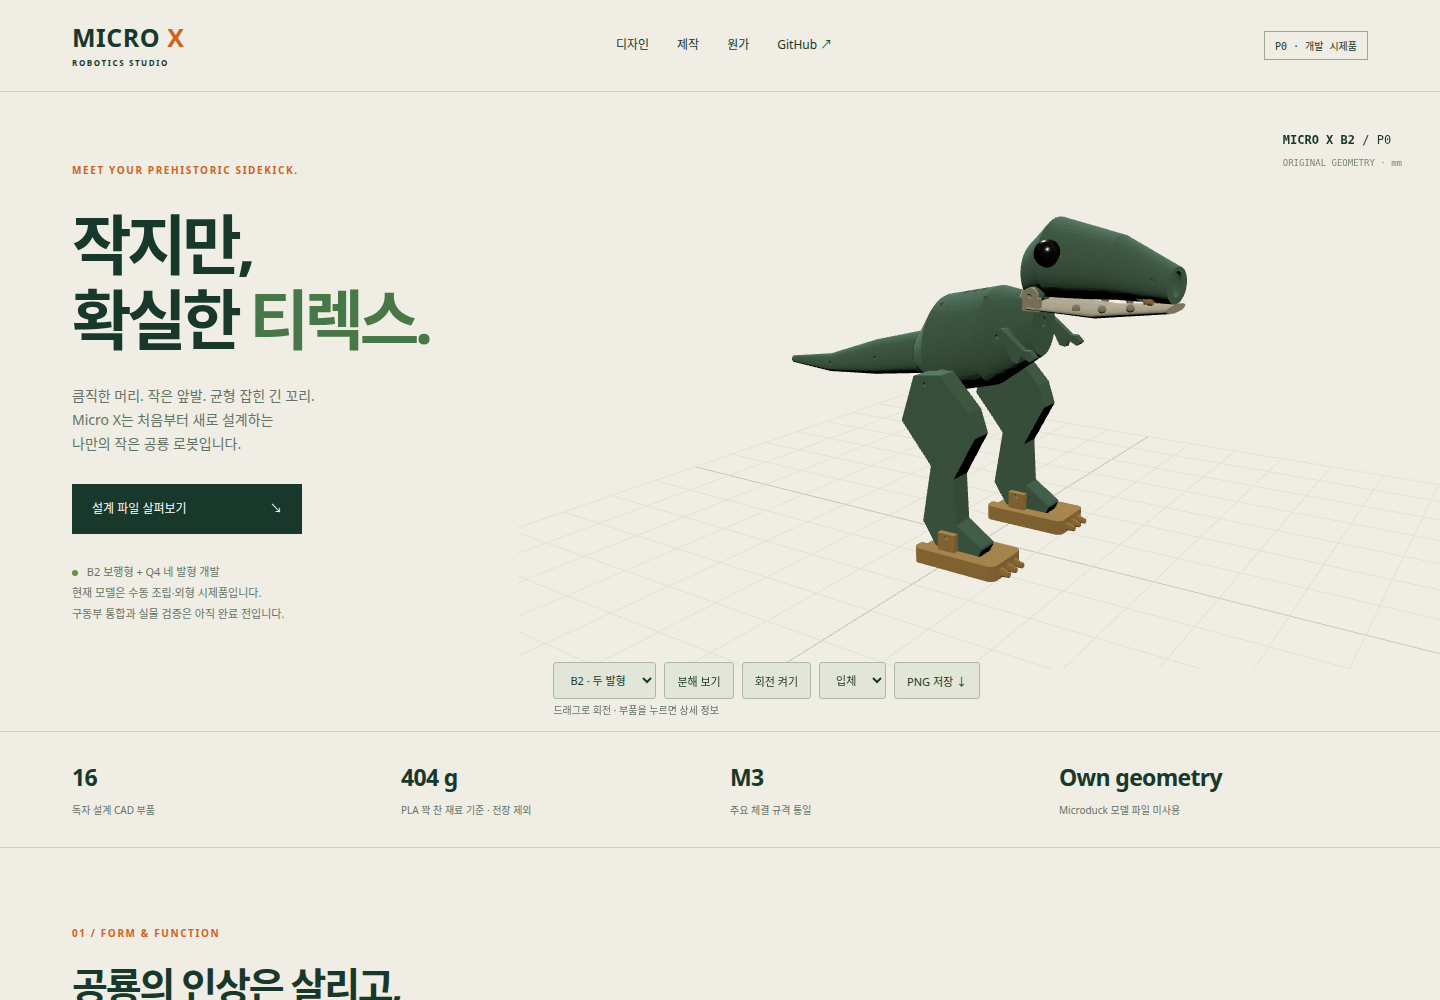
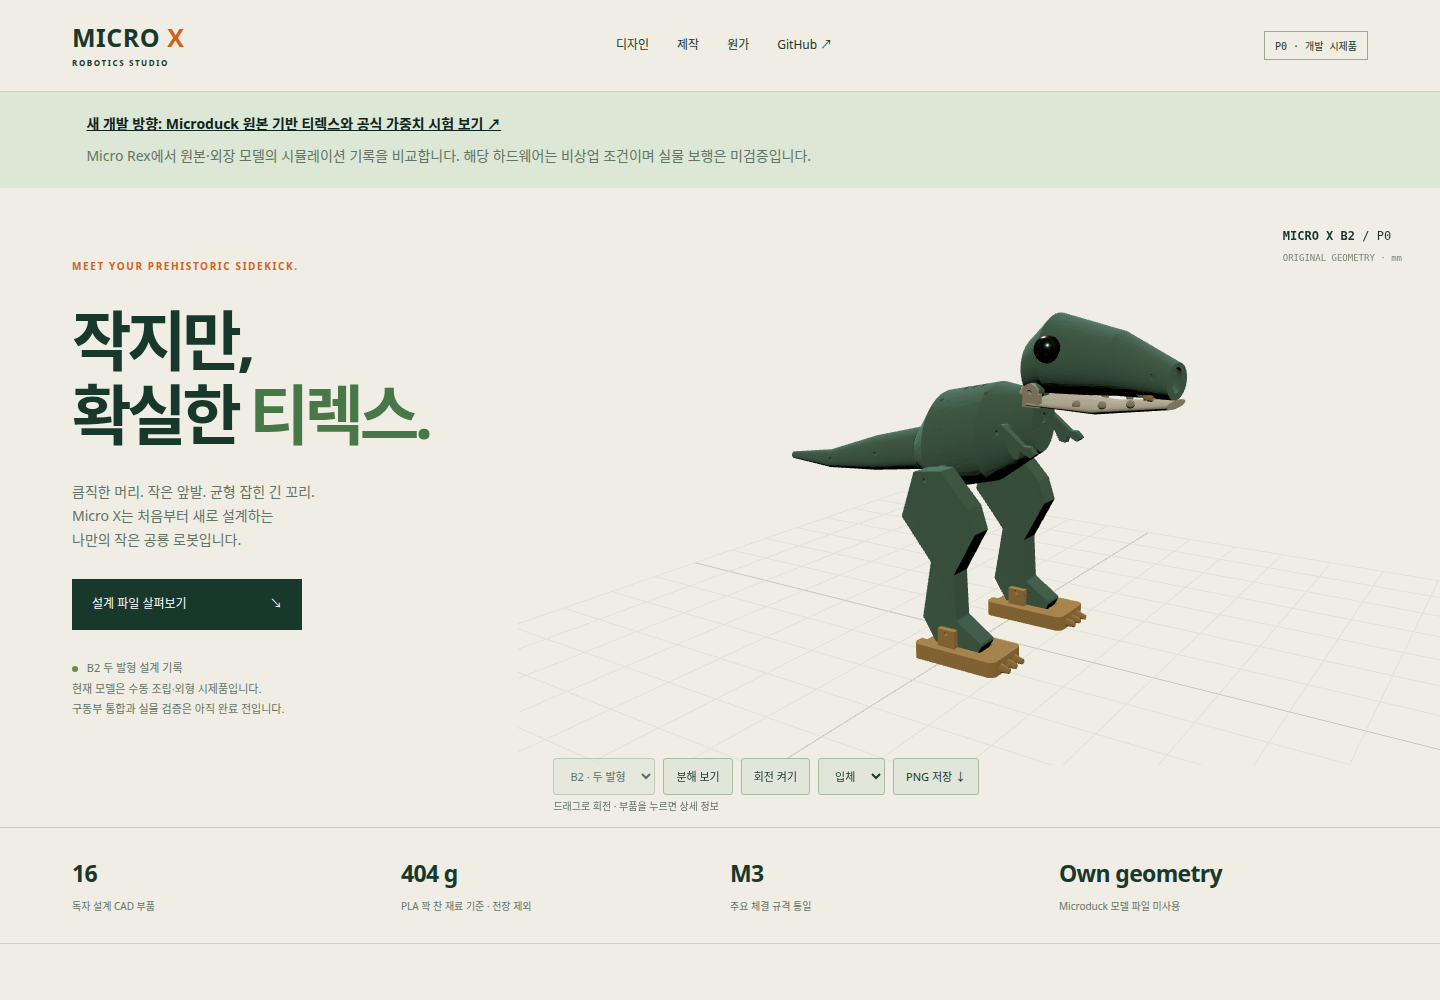
Retire Q4 from public viewer and focus on biped Rex

diff --git a/web/index.html b/web/index.html
@@ -1,10 +1,10 @@
 <!doctype html><html lang="ko"><head><meta charset="utf-8"><meta name="viewport" content="width=device-width,initial-scale=1"><meta name="theme-color" content="#10241d"><title>MICRO X — A little prehistoric.</title><link rel="stylesheet" href="style.css"><script type="importmap">{"imports":{"three":"./vendor/three/build/three.module.js"}}</script></head><body>
 <header><a class="logo" href="#">MICRO <b>X</b><small>ROBOTICS STUDIO</small></a><nav><a href="#design">디자인</a><a href="#build">제작</a><a href="#cost">원가</a><a href="https://github.com/hwkim3330/micro-x">GitHub ↗</a></nav><span class="tag">P0 · 개발 시제품</span></header>
 <div style="padding:20px 6%;background:#dce7d5;color:#10241d"><a href="https://hwkim3330.github.io/micro-rex/web/" style="font-weight:700">새 개발 방향: Microduck 원본 기반 티렉스와 공식 가중치 시험 보기 ↗</a><p style="margin:8px 0 0">Micro Rex에서 원본·외장 모델의 시뮬레이션 기록을 비교합니다. 해당 하드웨어는 비상업 조건이며 실물 보행은 미검증입니다.</p></div>
-<main><section class="hero" id="design"><div class="copy"><div class="eyebrow">MEET YOUR PREHISTORIC SIDEKICK.</div><h1>작지만,<br>확실한 <em>티렉스.</em></h1><p>큼직한 머리. 작은 앞발. 균형 잡힌 긴 꼬리.<br>Micro X는 처음부터 새로 설계하는<br>나만의 작은 공룡 로봇입니다.</p><a class="cta" href="#build">설계 파일 살펴보기 <span>↘</span></a><div class="hero-note"><span class="dot"></span> B2 보행형 + Q4 네 발형 개발<br>현재 모델은 수동 조립·외형 시제품입니다.<br>구동부 통합과 실물 검증은 아직 완료 전입니다.</div></div><div class="stage"><div id="view"><div id="loading" role="status">3D 모델 준비 중…</div><div class="coordinates"><b id="model-name">MICRO X B2</b> / P0<br><span>ORIGINAL GEOMETRY · mm</span></div></div><div class="tools"><select id="variant" aria-label="로봇 모델"><option value="b2">B2 · 두 발형</option><option value="q4">Q4 · 네 발형</option></select><button id="explode">분해 보기</button><button id="rotate">회전 켜기</button><select id="camera" aria-label="카메라 방향"><option value="hero">입체</option><option value="side">측면</option><option value="front">정면</option></select><button id="save">PNG 저장 ↓</button></div><div class="hint">드래그로 회전 · 부품을 누르면 상세 정보</div></div></section>
+<main><section class="hero" id="design"><div class="copy"><div class="eyebrow">MEET YOUR PREHISTORIC SIDEKICK.</div><h1>작지만,<br>확실한 <em>티렉스.</em></h1><p>큼직한 머리. 작은 앞발. 균형 잡힌 긴 꼬리.<br>Micro X는 처음부터 새로 설계하는<br>나만의 작은 공룡 로봇입니다.</p><a class="cta" href="#build">설계 파일 살펴보기 <span>↘</span></a><div class="hero-note"><span class="dot"></span> B2 두 발형 설계 기록<br>현재 모델은 수동 조립·외형 시제품입니다.<br>구동부 통합과 실물 검증은 아직 완료 전입니다.</div></div><div class="stage"><div id="view"><div id="loading" role="status">3D 모델 준비 중…</div><div class="coordinates"><b id="model-name">MICRO X B2</b> / P0<br><span>ORIGINAL GEOMETRY · mm</span></div></div><div class="tools"><select id="variant" aria-label="로봇 모델"><option value="b2">B2 · 두 발형</option></select><button id="explode">분해 보기</button><button id="rotate">회전 켜기</button><select id="camera" aria-label="카메라 방향"><option value="hero">입체</option><option value="side">측면</option><option value="front">정면</option></select><button id="save">PNG 저장 ↓</button></div><div class="hint">드래그로 회전 · 부품을 누르면 상세 정보</div></div></section>
 <section class="strip"><div><b id="part-count">—</b><span>독자 설계 CAD 부품</span></div><div><b id="mass">—</b><span>PLA 꽉 찬 재료 기준 · 전장 제외</span></div><div><b>M3</b><span>주요 체결 규격 통일</span></div><div><b>Own geometry</b><span>Microduck 모델 파일 미사용</span></div></section>
 <section class="section"><div class="heading"><span class="eyebrow">01 / FORM & FUNCTION</span><h2>공룡의 인상은 살리고,<br>구조는 단순하게.</h2></div><div class="features"><article><span>01</span><h3>수리할 수 있는 몸통</h3><p>상·하부 쉘과 네 개의 공용 나사로 구성합니다. 소모품과 내부 모듈을 교체할 수 있는 서비스 구조를 지향합니다.</p></article><article><span>02</span><h3>표정은 귀엽게, 눈은 나사로</h3><p>큰 눈동자와 하이라이트는 도색 표현으로 구현했습니다. 눈 부품은 안쪽 나사로 고정하도록 바꾸었으며 고정력 시험은 아직 남아 있습니다.</p></article><article><span>03</span><h3>제작 단계가 보이는 모델</h3><p>부품별 CAD와 출력 파일을 제공합니다. 출력 가능한 닫힌 모델과 조립·양산 검증 완료는 별도 단계로 관리합니다.</p></article></div></section>
 <section class="section" id="senses"><div class="heading"><span class="eyebrow">SENSES / IN DEVELOPMENT</span><h2>바라보고, 듣고,<br>작게 인사하는 공룡.</h2><p>카메라 장착 구조와 장치 소프트웨어를 개발 중입니다. 실제 로봇의 영상·음성·보행 통합은 아직 검증 전입니다.</p></div><div class="features"><article><span>CAMERA</span><h3>코 안의 카메라 자리</h3><p>자동초점 Camera Module 3 Standard 후보에 맞춘 브래킷과 렌즈 포트를 추가했습니다. 실시간 영상 전송과 실물 광학 시험은 남아 있습니다.</p><a href="../artifacts/camera_fit.json">렌즈 개구 계산 ↗</a></article><article><span>VOICE</span><h3>작은 공룡의 인사</h3><p>직접 합성한 울음소리 예시입니다. 실제 로봇 녹음이 아닙니다. 장치 서비스에는 마이크 녹음·소리 재생 경로를 구현했습니다.</p><audio id="chirp" controls preload="metadata" aria-label="합성 공룡 울음소리 예시" src="assets/micro-x-chirp.wav" style="width:100%"></audio></article><article><span>PROGRESS</span><h3>기능을 하나씩 검증</h3><p>IMU·거리 센서·발 접촉과 보행 제어는 미통합입니다. Microduck보다 나은 제품을 목표로 실제 시험 결과를 쌓아갑니다.</p><a href="https://github.com/hwkim3330/micro-x/blob/main/docs/FUNCTIONS.md">기능 비교·실행 안내 ↗</a></article></div></section>
-<section class="section engineering" id="build"><div class="heading"><span class="eyebrow">02 / OPEN DEVELOPMENT</span><h2>만들어 보고, 검증하고,<br>다음 설계로.</h2><p>공개 열람용 독자 설계입니다. 제조·재배포 권한은 <a href="../LICENSE">라이선스 범위</a>를 확인하세요.</p></div><div class="build-grid"><div><div id="selection"><h3>모델에서 부품을 선택하세요</h3><p>치수 · 재료 질량 추정 · STL · STEP</p></div><div class="downloads"><a id="assembly-step" href="../models/micro_x.step">전체 조립체 STEP ↓</a><a href="../models/coupons/m3_pilot_coupon.stl">M3 나사 시험 출력 STL ↓</a><a id="assembly-glb" href="../models/micro_x.glb">3D 모델 GLB ↓</a><a id="drawing-pdf" href="../artifacts/drawings.pdf">부품 도면 PDF ↗</a><a href="https://github.com/hwkim3330/micro-x/blob/main/docs/ASSEMBLY.md">조립 및 미해결 인터페이스 ↗</a></div></div><div><h3>자세 미리 보기</h3><p class="small">수동 힌지의 시각적 동작입니다. 모터 제어·충돌 검사·보행 시뮬레이션이 아닙니다.</p><label for="jaw">턱 열기 <output id="jaw-value">0°</output></label><input id="jaw" type="range" min="0" max="20" value="0"><button id="reset">조립 자세로 초기화</button><div class="status-card"><p>기본 자세 STEP 겹침 0건 · 턱 0–20°를 2° 간격으로 검사. 나사·공차·연속 동작은 미검증.</p><a id="static-report" href="../artifacts/interference.json">기본 자세 검사 ↗</a> · <a href="../artifacts/jaw_clearance.json">턱 검사 ↗</a><b style="display:block;margin-top:12px">현재 단계: P0 외형·조립 설계 / B2·Q4</b><p>구동부 장착, 목·머리 체결 완성 및 꼬리·앞팔 끼워맞춤, 물리적 간섭 검증과 시제품 시험이 남아 있습니다. 주문을 받는 판매 페이지가 아닙니다.</p></div></div></div><div class="table-wrap"><table><thead><tr><th>부품</th><th>크기 (mm)</th><th>재료 질량</th><th>파일</th></tr></thead><tbody id="parts"></tbody></table></div></section>
-<section class="section" id="cost"><div class="heading"><span class="eyebrow">03 / COST BY DESIGN</span><h2>싸게 보이는 숫자 대신,<br>바꿀 수 있는 원가 가정.</h2><p>아래는 견적이 아닌 비교 계산기입니다. 세금·배송·금형·인증·개발비·마진은 제외합니다.</p></div><div class="cost-grid"><div class="cost-inputs"><label>모터 수 <input id="motor-count" type="number" min="0" max="30" step="1" value="13"></label><label>모터 단가 ($) <input id="motor-price" type="number" min="0" step=".01" value="16.99"></label><label>전장·배선·체결 ($, 가정) <input id="other-cost" type="number" min="0" step="1" value="60"></label><label>출력·마감·조립 ($, 가정) <input id="assembly-cost" type="number" min="0" step="1" value="35"></label><label>수율 (%, 가정) <input id="yield" type="number" min="1" max="100" value="95"></label></div><div class="cost-total"><span>입력 가정에 따른 단위 비용</span><b id="cost-result">—</b><p>ST3215 계열 공개 소매가 범위 $16.99–21.99를 비교 입력값으로 사용했습니다. 실제 모터는 미선정이며 CAD에 통합되지 않았습니다.</p><a href="https://www.waveshare.com/product/modules/st3215-servo.htm">가격·사양 출처 ↗</a><p>계산기의 모터 수는 예시입니다. B2 13축·Q4 15축 요구안을 수립했으며, 실제 모터와 보행은 미검증입니다. <a href="../artifacts/platform_screen.json">하중·축 수 검토 ↗</a></p></div></div></section>
+<section class="section engineering" id="build"><div class="heading"><span class="eyebrow">02 / OPEN DEVELOPMENT</span><h2>만들어 보고, 검증하고,<br>다음 설계로.</h2><p>공개 열람용 독자 설계입니다. 제조·재배포 권한은 <a href="../LICENSE">라이선스 범위</a>를 확인하세요.</p></div><div class="build-grid"><div><div id="selection"><h3>모델에서 부품을 선택하세요</h3><p>치수 · 재료 질량 추정 · STL · STEP</p></div><div class="downloads"><a id="assembly-step" href="../models/micro_x.step">전체 조립체 STEP ↓</a><a href="../models/coupons/m3_pilot_coupon.stl">M3 나사 시험 출력 STL ↓</a><a id="assembly-glb" href="../models/micro_x.glb">3D 모델 GLB ↓</a><a id="drawing-pdf" href="../artifacts/drawings.pdf">부품 도면 PDF ↗</a><a href="https://github.com/hwkim3330/micro-x/blob/main/docs/ASSEMBLY.md">조립 및 미해결 인터페이스 ↗</a></div></div><div><h3>자세 미리 보기</h3><p class="small">수동 힌지의 시각적 동작입니다. 모터 제어·충돌 검사·보행 시뮬레이션이 아닙니다.</p><label for="jaw">턱 열기 <output id="jaw-value">0°</output></label><input id="jaw" type="range" min="0" max="20" value="0"><button id="reset">조립 자세로 초기화</button><div class="status-card"><p>기본 자세 STEP 겹침 0건 · 턱 0–20°를 2° 간격으로 검사. 나사·공차·연속 동작은 미검증.</p><a id="static-report" href="../artifacts/interference.json">기본 자세 검사 ↗</a> · <a href="../artifacts/jaw_clearance.json">턱 검사 ↗</a><b style="display:block;margin-top:12px">현재 단계: P0 외형·조립 설계 / B2</b><p>구동부 장착, 목·머리 체결 완성 및 꼬리·앞팔 끼워맞춤, 물리적 간섭 검증과 시제품 시험이 남아 있습니다. 주문을 받는 판매 페이지가 아닙니다.</p></div></div></div><div class="table-wrap"><table><thead><tr><th>부품</th><th>크기 (mm)</th><th>재료 질량</th><th>파일</th></tr></thead><tbody id="parts"></tbody></table></div></section>
+<section class="section" id="cost"><div class="heading"><span class="eyebrow">03 / COST BY DESIGN</span><h2>싸게 보이는 숫자 대신,<br>바꿀 수 있는 원가 가정.</h2><p>아래는 견적이 아닌 비교 계산기입니다. 세금·배송·금형·인증·개발비·마진은 제외합니다.</p></div><div class="cost-grid"><div class="cost-inputs"><label>모터 수 <input id="motor-count" type="number" min="0" max="30" step="1" value="13"></label><label>모터 단가 ($) <input id="motor-price" type="number" min="0" step=".01" value="16.99"></label><label>전장·배선·체결 ($, 가정) <input id="other-cost" type="number" min="0" step="1" value="60"></label><label>출력·마감·조립 ($, 가정) <input id="assembly-cost" type="number" min="0" step="1" value="35"></label><label>수율 (%, 가정) <input id="yield" type="number" min="1" max="100" value="95"></label></div><div class="cost-total"><span>입력 가정에 따른 단위 비용</span><b id="cost-result">—</b><p>ST3215 계열 공개 소매가 범위 $16.99–21.99를 비교 입력값으로 사용했습니다. 실제 모터는 미선정이며 CAD에 통합되지 않았습니다.</p><a href="https://www.waveshare.com/product/modules/st3215-servo.htm">가격·사양 출처 ↗</a><p>계산기의 모터 수는 예시입니다. B2 13축 요구안을 수립했으며, 실제 모터와 보행은 미검증입니다. <a href="../artifacts/platform_screen.json">하중·축 수 검토 ↗</a></p></div></div></section>
 <footer><a class="logo" href="#">MICRO <b>X</b></a><p>Independent product development by hwkim3330<br>Original design rights reserved · Web software MIT · <a href="https://github.com/hwkim3330/micro-x/blob/main/docs/PROVENANCE.md">출처 및 권리 기록</a></p><a href="https://hwkim3330.github.io/micro-rex/">기존 Micro Rex 비상업 시제품 ↗</a></footer></main><script type="module" src="app.js"></script></body></html>

diff --git a/web/app.js b/web/app.js
@@ -6,9 +6,9 @@ let parts=[],items=[],model,selected,jawPivot,expanded=false;
 function inspect(mesh){if(selected)selected.material.emissive.setHex(0);selected=mesh;if(!mesh)return;selected.material.emissive.setHex(0x233817);const p=parts.find(p=>p.name===mesh.name);if(!p)return;const box=$('#selection');box.replaceChildren();for(const [tag,text]of [['h3',p.name.replaceAll('_',' ')],['p',`${p.dimensions_mm.join(' × ')} mm · ${p.mass_g} g 재료 기준`],['p',p.note]]){const e=document.createElement(tag);e.textContent=text;box.append(e)}for(const [label,path]of [['STL',p.stl],['STEP',p.step]]){const a=document.createElement('a');a.textContent=label+' ↓';a.href='../'+path;box.append(a)}}
 function setExplode(){for(const mesh of items){mesh.position.copy(mesh.userData.base);if(expanded)mesh.position.add(mesh.userData.offset)}}
 let loadVersion=0;
-async function loadVariant(key){const version=++loadVersion;const quad=key==='q4';$('#loading').hidden=false;$('#loading').textContent='3D 모델 준비 중…';window.microX=null;
+async function loadVariant(key){key='b2';const version=++loadVersion;const quad=false;$('#loading').hidden=false;$('#loading').textContent='3D 모델 준비 중…';window.microX=null;
 try{const r=await fetch(quad?'../artifacts/q4_parts.json':'../artifacts/parts.json');if(!r.ok)throw Error('parts '+r.status);const nextParts=await r.json();const g=await new GLTFLoader().loadAsync(quad?'../models/q4/micro_x_q4.glb':'../models/micro_x.glb');if(version!==loadVersion){g.scene.traverse(o=>{if(o.isMesh){o.geometry.dispose();o.material.dispose()}});return}if(model){scene.remove(model);model.traverse(o=>{if(o.isMesh){o.geometry.dispose();o.material.dispose()}})}parts=nextParts;items=[];selected=null;expanded=false;$('#explode').textContent='분해 보기';$('#jaw').value=0;$('#jaw-value').textContent='0°';$('#parts').replaceChildren();$('#selection').innerHTML='<h3>모델에서 부품을 선택하세요</h3><p>치수 · 재료 질량 추정 · STL · STEP</p>';model=g.scene;scene.add(model);model.traverse(o=>{if(o.isMesh){o.material=o.material.clone();if(o.name.startsWith('eye_'))o.material.roughness=.2;items.push(o)}});const jaw=items.find(o=>o.name==='jaw');jawPivot=new THREE.Group();jawPivot.position.set(.059,0,.212);model.add(jawPivot);model.updateMatrixWorld(true);jawPivot.attach(jaw);for(const mesh of items){mesh.userData.base=mesh.position.clone();const p=parts.find(p=>p.name===mesh.name);mesh.userData.offset=new THREE.Vector3(p.group==='tail'?-.07:p.group==='head'||p.group==='jaw'?.045:0,mesh.name.includes('left')?.07:mesh.name.includes('right')?-.07:0,p.name==='torso_upper'?.07:p.group==='head'?.06:0)}model.rotation.x=-Math.PI/2;$('#part-count').textContent=parts.length;$('#mass').textContent=parts.reduce((s,p)=>s+p.mass_g,0).toFixed(0)+' g';for(const p of parts){const tr=document.createElement('tr');const name=document.createElement('td'),b=document.createElement('button');b.textContent=p.name.replaceAll('_',' ');b.onclick=()=>{inspect(items.find(m=>m.name===p.name));$('#selection').scrollIntoView({behavior:'smooth',block:'center'})};name.append(b);tr.append(name);for(const text of [p.dimensions_mm.join(' × '),p.mass_g+' g']){const td=document.createElement('td');td.textContent=text;tr.append(td)}const td=document.createElement('td');for(const [label,path]of [['STL',p.stl],['STEP',p.step]]){const a=document.createElement('a');a.textContent=label+' ↓';a.href='../'+path;td.append(a)}tr.append(td);$('#parts').append(tr)}$('#loading').hidden=true;window.microX={items,parts,inspect,jawPivot,variant:key};$('#motor-count').value=quad?15:13;$('#motor-count').dispatchEvent(new Event('input'));$('#model-name').textContent=quad?'MICRO X Q4':'MICRO X B2';$('#assembly-step').href=quad?'../models/q4/micro_x_q4.step':'../models/micro_x.step';$('#assembly-glb').href=quad?'../models/q4/micro_x_q4.glb':'../models/micro_x.glb';$('#drawing-pdf').href=quad?'../artifacts/drawings_q4.pdf':'../artifacts/drawings.pdf';$('#static-report').href=quad?'../artifacts/q4_validation.json':'../artifacts/interference.json';}catch(e){$('#loading').textContent='모델을 불러오지 못했습니다. GitHub에서 파일을 확인해 주세요.';console.error(e)}}
-$('#variant').onchange=e=>{const url=new URL(location.href);url.searchParams.set('model',e.target.value);history.replaceState(null,'',url);loadVariant(e.target.value)};const initialVariant=new URLSearchParams(location.search).get('model')==='q4'?'q4':'b2';$('#variant').value=initialVariant;await loadVariant(initialVariant);
+$('#variant').disabled=true;const initialURL=new URL(location.href);if(initialURL.searchParams.has('model')){initialURL.searchParams.set('model','b2');history.replaceState(null,'',initialURL)}await loadVariant('b2');
 $('#explode').onclick=e=>{expanded=!expanded;setExplode();e.target.textContent=expanded?'조립 보기':'분해 보기'};$('#rotate').onclick=e=>{controls.autoRotate=!controls.autoRotate;e.target.textContent=controls.autoRotate?'회전 끄기':'회전 켜기'};$('#jaw').oninput=e=>{const angle=Number(e.target.value);if(jawPivot)jawPivot.rotation.y=THREE.MathUtils.degToRad(angle);$('#jaw-value').textContent=angle+'°'};$('#reset').onclick=()=>{if(expanded)$('#explode').click();if(controls.autoRotate)$('#rotate').click();$('#jaw').value=0;$('#jaw').dispatchEvent(new Event('input'));$('#camera').value='hero';$('#camera').dispatchEvent(new Event('change'))};$('#camera').onchange=e=>{camera.position.fromArray({hero:[.39,.31,.62],side:[0,.18,.75],front:[.75,.18,0]}[e.target.value]);controls.target.set(-.005,.135,0);controls.update()};$('#save').onclick=()=>{renderer.render(scene,camera);const a=document.createElement('a');a.href=renderer.domElement.toDataURL('image/png');a.download='micro-x-p0.png';a.click()};
 const raycaster=new THREE.Raycaster();let start;renderer.domElement.onpointerdown=e=>{start=[e.clientX,e.clientY]};renderer.domElement.onpointerup=e=>{if(!start||Math.hypot(e.clientX-start[0],e.clientY-start[1])>5)return;const r=renderer.domElement.getBoundingClientRect();raycaster.setFromCamera(new THREE.Vector2((e.clientX-r.left)/r.width*2-1,-(e.clientY-r.top)/r.height*2+1),camera);const hit=raycaster.intersectObjects(items,false)[0];if(hit)inspect(hit.object)};
 const costIds=['motor-count','motor-price','other-cost','assembly-cost','yield'];function calculate(){const values=costIds.map(id=>Number($('#'+id).value));const [n,p,o,a,y]=values;$('#cost-result').textContent=values.some(v=>!Number.isFinite(v)||v<0)||n>30||!Number.isInteger(n)||y<=0||y>100?'입력 확인':'$'+((n*p+o+a)/(y/100)).toFixed(2)}costIds.forEach(id=>$('#'+id).oninput=calculate);calculate();new ResizeObserver(()=>{renderer.setSize(el.clientWidth,el.clientHeight);camera.aspect=el.clientWidth/el.clientHeight;camera.updateProjectionMatrix()}).observe(el);let visible=true,last=0;new IntersectionObserver(entries=>visible=entries[0].isIntersecting).observe(el);renderer.setAnimationLoop(time=>{if(!visible||document.hidden||time-last<33)return;last=time;controls.update();renderer.render(scene,camera)});

diff --git a/README.md b/README.md
@@ -40,9 +40,9 @@ python3 -m http.server 5191
 
 원본 기구·CAD 생성 소스·모델·도면은 소유자 권리를 유보합니다. 공개 저장소 열람이 추가적인 제조·판매 허락을 뜻하지 않습니다. 웹과 일반 도구 코드는 MIT, Three.js는 원래 MIT 조건을 유지합니다. 상세 범위는 [LICENSE](LICENSE), [THIRD_PARTY.md](THIRD_PARTY.md)를 따릅니다. 제품 이름과 독자 설계의 권리 검토는 상용 출시 전에 별도로 필요합니다.
 
-## B2 두 발형 + Q4 네 발형
+## 두 발 티렉스에 집중
 
-두 발 보행을 주 제품 요구사항으로 확정했고, 공용 부품을 이용한 Q4 네 발형을 추가했습니다. 웹에서 두 모델을 전환할 수 있습니다. Q4는 20개 부품 인스턴스의 STEP·GLB·출력 STL을 제공합니다. 현재는 고정 다리의 배치 시제품이며, 실제 보행 구동계는 미완성입니다.
+사용자 요청에 따라 Q4는 공개 모델 선택에서 내렸습니다. 기존 CAD는 설계 기록으로 보존하며, 예전 Q4 웹 링크는 B2로 연결됩니다. 현재 개발은 [Microduck 관절을 유지하는 Micro Rex](https://github.com/hwkim3330/micro-rex)에 집중합니다. 저가형 Nano Rex는 후속 단계입니다.
 
 [플랫폼 요구사항과 하중 검토](docs/PLATFORMS.md) · [Q4 CAD](models/q4/micro_x_q4.step) · [검사 기록](artifacts/q4_validation.json)
 

diff --git a/PROJECT_GOAL.md b/PROJECT_GOAL.md
@@ -31,6 +31,8 @@ Deliver a traceable engineering prototype package: original parametric CAD, prin
 
 ## B2 / Q4 expansion
 
+Q4 is retired from the public viewer at the user's request. Files remain as archived design evidence. Active priorities are the Microduck-joint Micro Rex first, and a separate cost-reduced Nano Rex later.
+
 - [x] Q4 common-part packaging CAD and model viewer selection
 - [ ] B2 13-axis and Q4 15-axis candidate drive configuration validation
 - [ ] Motor torque/thermal evidence, bearings, shafts and mechanical drive cartridges
